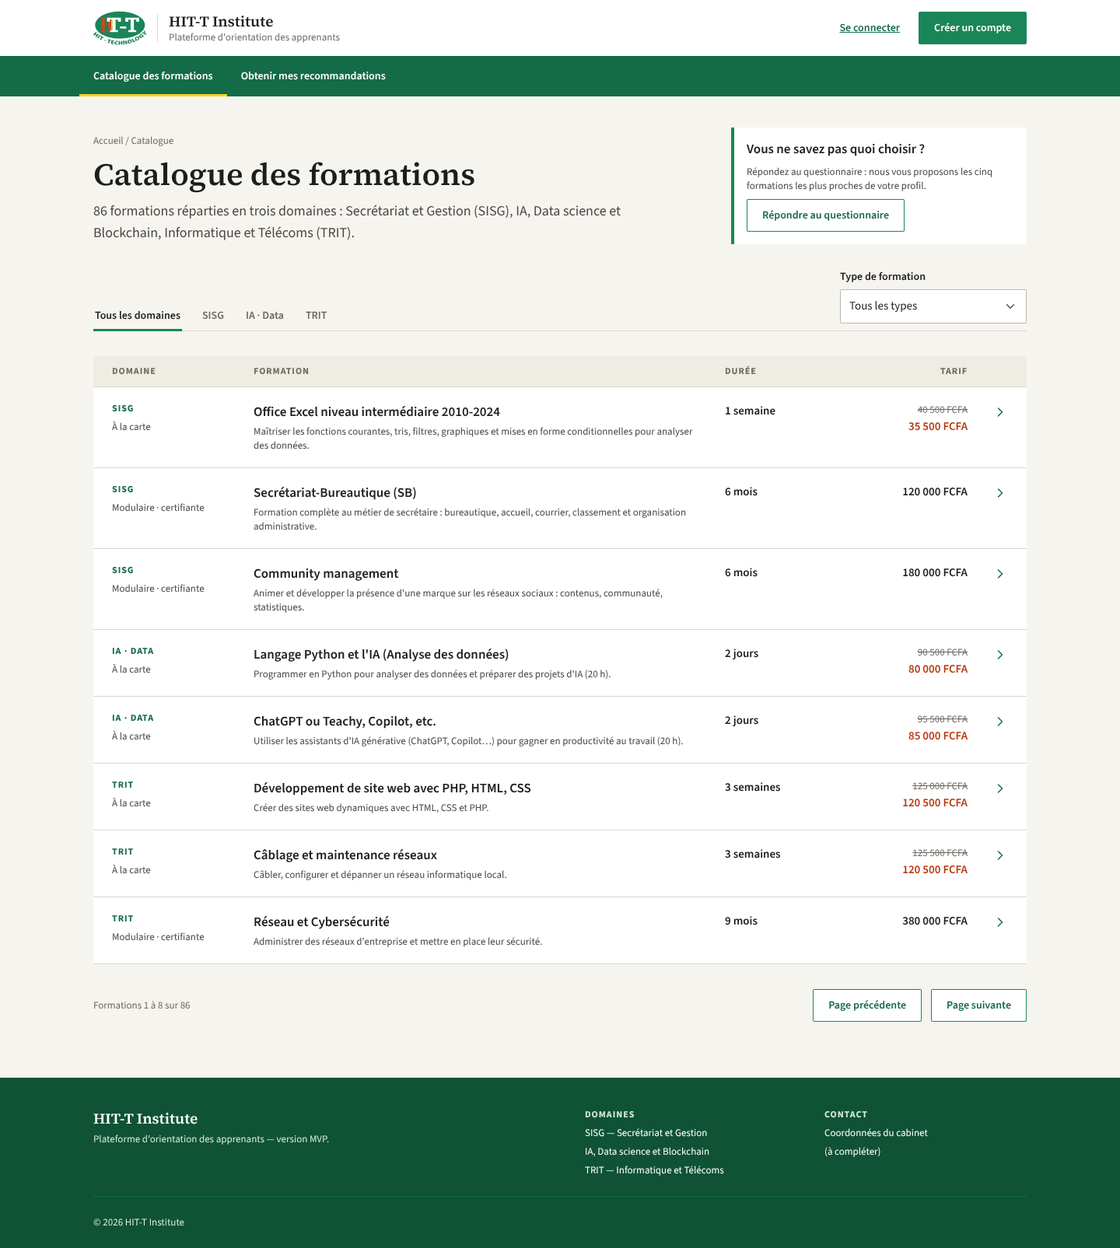
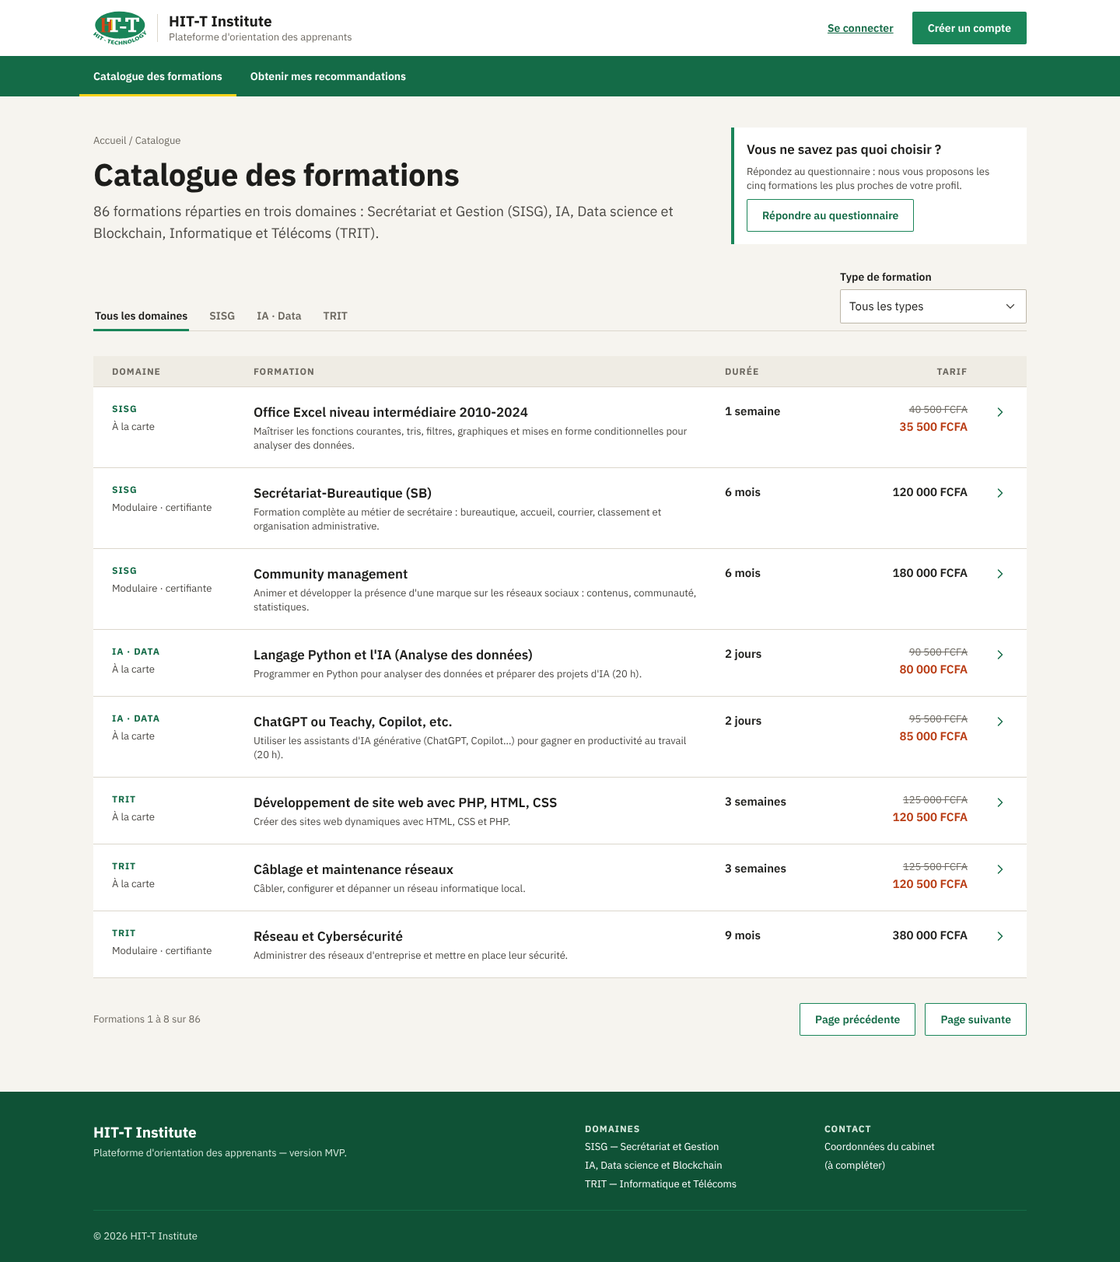
Design v2 : police IBM Plex Sans, cartes sans bordure, sans ombre
Claude-Session: https://claude.ai/code/session_01RyxwZ4ewkXKC6Hwn9jwCTd

diff --git a/design/figma-scripts/v2-03-ecrans-mobile.js b/design/figma-scripts/v2-03-ecrans-mobile.js
@@ -8,8 +8,9 @@ const load = async (p) => { if (p.loadAsync) await p.loadAsync(); };
 const goTo = async (p) => { if (figma.setCurrentPageAsync) await figma.setCurrentPageAsync(p); else figma.currentPage = p; };
 
 const PAGES = { fond: 'v2 · Fondations', desk: 'v2 · Écrans desktop', mob: 'v2 · Écrans mobile' };
-const SERIF = ['Source Serif 4', 'Source Serif Pro', 'Georgia'];
-const SANS = ['Source Sans 3', 'Source Sans Pro', 'Inter'];
+// Police unique de la plateforme (repli sur Inter si absente)
+const TITRES = ['IBM Plex Sans', 'Inter'];
+const SANS = ['IBM Plex Sans', 'Inter'];
 
 const COULEURS = {
   'couleur/vert/800': '#0F5236', 'couleur/vert/700': '#146B47', 'couleur/vert/600': '#1A8559', 'couleur/vert/100': '#D5E8DC', 'couleur/vert/50': '#EEF5F0',
@@ -23,10 +24,10 @@ const COULEURS = {
 const RAYONS = { 'rayon/petit': 2, 'rayon/moyen': 4 };
 // [nom, familles, graisse, taille, interligne, interlettrage %, casse]
 const STYLES = [
-  ['Display', SERIF, 'Semibold', 40, 48, 0, 'ORIGINAL'],
-  ['Titre 1', SERIF, 'Semibold', 30, 38, 0, 'ORIGINAL'],
-  ['Titre 2', SERIF, 'Semibold', 22, 30, 0, 'ORIGINAL'],
-  ['Marque', SERIF, 'Semibold', 19, 24, 0, 'ORIGINAL'],
+  ['Display', TITRES, 'Bold', 40, 48, -1, 'ORIGINAL'],
+  ['Titre 1', TITRES, 'Bold', 30, 38, -0.5, 'ORIGINAL'],
+  ['Titre 2', TITRES, 'Semibold', 22, 30, 0, 'ORIGINAL'],
+  ['Marque', TITRES, 'Bold', 19, 24, 0, 'ORIGINAL'],
   ['Titre 3', SANS, 'Semibold', 17, 24, 0, 'ORIGINAL'],
   ['Chapô', SANS, 'Regular', 18, 28, 0, 'ORIGINAL'],
   ['Corps', SANS, 'Regular', 15, 22, 0, 'ORIGINAL'],
@@ -35,8 +36,8 @@ const STYLES = [
   ['Petit', SANS, 'Regular', 13, 18, 0, 'ORIGINAL'],
   ['Petit fort', SANS, 'Semibold', 13, 18, 0, 'ORIGINAL'],
   ['Surtitre', SANS, 'Bold', 12, 16, 8, 'UPPER'],
-  ['Chiffre', SERIF, 'Semibold', 44, 52, 0, 'ORIGINAL'],
-  ['Rang', SERIF, 'Semibold', 34, 40, 0, 'ORIGINAL'],
+  ['Chiffre', TITRES, 'Bold', 44, 52, 0, 'ORIGINAL'],
+  ['Rang', TITRES, 'Bold', 34, 40, 0, 'ORIGINAL'],
 ];
 
 let V = {}, TS = {}, FP, DESK, MOB, FONTS;
@@ -185,7 +186,6 @@ function panel(name, p = 24) {
   const c = AL('VERTICAL', { name, gap: 16 });
   pad(c, p);
   c.fills = fill('couleur/papier');
-  stroke(c, 'couleur/filet');
   rad(c);
   return c;
 }
@@ -406,7 +406,7 @@ async function catalogueScreen(idx) {
   for (const [o, a] of [['Tous les domaines', true], ['SISG', false], ['IA · Data', false], ['TRIT', false]]) bar.appendChild(inst(S.tab, a ? 'État=Actif' : 'État=Inactif', { 'Libellé': o }));
   spacer(bar);
   const typ = inst(S.field, 'Type=Liste', { 'Libellé': 'Type de formation', 'Valeur': 'Tous les types' }); bar.appendChild(typ); setW(typ, 240); typ.paddingBottom = 10;
-  const list = AL('VERTICAL', { name: 'Liste', gap: 0 }); list.fills = fill('couleur/papier'); stroke(list, 'couleur/filet'); append(b, list);
+  const list = AL('VERTICAL', { name: 'Liste', gap: 0 }); list.fills = fill('couleur/papier'); append(b, list);
   const lh = AL('HORIZONTAL', { name: 'En-tête de liste', gap: 32 }); pad(lh, 12, 24); lh.fills = fill('couleur/fond-2'); stroke(lh, 'couleur/filet', 1, 'b'); append(list, lh);
   for (const [l, w] of [['Domaine', 150], ['Formation', null], ['Durée', 110], ['Tarif', 170], ['', 20]]) { const c = AL('HORIZONTAL', { name: l || 'Vide' }); if (l === 'Tarif') c.primaryAxisAlignItems = 'MAX'; lh.appendChild(c); if (w) setW(c, w); else c.layoutSizingHorizontal = 'FILL'; if (l) c.appendChild(await txt(l, 'Surtitre', 'couleur/discret')); }
   for (const f of CATALOGUE) append(list, await ligneFormation(S.row, f));
@@ -480,7 +480,7 @@ async function questionnaireScreen(idx) {
   const b3 = await block('3.', 'Vos contraintes');
   const tq = AL('VERTICAL', { name: 'Type souhaité', gap: 8 }); append(b3, tq);
   tq.appendChild(await txt('Type de formation souhaité', 'Libellé'));
-  const opts = AL('VERTICAL', { name: 'Options', gap: 0 }); stroke(opts, 'couleur/filet-fort'); rad(opts); append(tq, opts);
+  const opts = AL('VERTICAL', { name: 'Options', gap: 0 }); opts.fills = fill('couleur/papier'); append(tq, opts);
   let first = true;
   for (const [title, desc, sel] of [['Formation courte, à la carte', 'De 1 jour à 3 mois : un outil ou une compétence précise.', true], ['Parcours modulaire certifiant', 'De 2 à 9 mois : un métier complet.', false]]) {
     const o = AL('HORIZONTAL', { name: 'Option · ' + title, gap: 14 }); pad(o, 14, 16); o.counterAxisAlignItems = 'MIN';
@@ -559,7 +559,7 @@ async function adminScreen(idx) {
   ch.appendChild(inst(S.btn, 'Type=Principal', { 'Libellé': 'Ajouter une formation' }));
   const tabs = AL('HORIZONTAL', { name: 'Onglets', gap: 24 }); stroke(tabs, 'couleur/filet', 1, 'b'); append(cat, tabs);
   for (const [o, a] of [['Tous les domaines (86)', true], ['SISG (31)', false], ['IA · Data (24)', false], ['TRIT (31)', false]]) tabs.appendChild(inst(S.tab, a ? 'État=Actif' : 'État=Inactif', { 'Libellé': o }));
-  const tbl = AL('VERTICAL', { name: 'Tableau', gap: 0 }); tbl.fills = fill('couleur/papier'); stroke(tbl, 'couleur/filet'); append(cat, tbl);
+  const tbl = AL('VERTICAL', { name: 'Tableau', gap: 0 }); tbl.fills = fill('couleur/papier'); append(cat, tbl);
   const th = AL('HORIZONTAL', { name: 'En-tête tableau', gap: 16 }); pad(th, 12, 24); th.fills = fill('couleur/fond-2'); stroke(th, 'couleur/filet', 1, 'b'); append(tbl, th);
   for (const [l, w] of [['Intitulé', null], ['Domaine', 140], ['Type', 140], ['Durée', 100], ['Coût', 110], ['Prix promo', 110], ['Actions', 150]]) { const c = AL('HORIZONTAL', { name: l }); th.appendChild(c); if (w) setW(c, w); else c.layoutSizingHorizontal = 'FILL'; c.appendChild(await txt(l, 'Surtitre', 'couleur/discret')); }
   for (const [t, d, ty, du, co, pr] of [['Office Excel niveau intermédiaire 2010-2024', 'SISG', 'À la carte', '1 semaine', '40 500', '35 500'], ['Secrétariat-Bureautique (SB)', 'SISG', 'Modulaire', '6 mois', '120 000', '—'], ['Langage Python et l\'IA (Analyse des données)', 'IA-Data', 'À la carte', '2 jours', '90 500', '80 000'], ['Analyste développeur des systèmes IA', 'IA-Data', 'Modulaire', '6 mois', '250 000', '—'], ['Développement de site web avec PHP, HTML, CSS', 'TRIT', 'À la carte', '3 semaines', '125 000', '120 500'], ['Réseau et Cybersécurité', 'TRIT', 'Modulaire', '9 mois', '380 000', '—']]) {
@@ -579,7 +579,6 @@ async function adminScreen(idx) {
   ov.fills = [{ type: 'SOLID', color: hex('#1D1D1B'), opacity: 0.55 }];
   ov.layoutMode = 'VERTICAL'; ov.primaryAxisSizingMode = 'FIXED'; ov.counterAxisSizingMode = 'FIXED'; ov.counterAxisAlignItems = 'CENTER'; ov.paddingTop = 72;
   const md = panel('Fenêtre de modification', 0); md.itemSpacing = 0; ov.appendChild(md); setW(md, 720);
-  md.effects = [{ type: 'DROP_SHADOW', color: { r: 0, g: 0, b: 0, a: 0.18 }, offset: { x: 0, y: 12 }, radius: 32, spread: 0, visible: true, blendMode: 'NORMAL' }];
   const mh = AL('HORIZONTAL', { name: 'En-tête', gap: 16 }); mh.counterAxisAlignItems = 'CENTER'; pad(mh, 20, 32); mh.fills = fill('couleur/vert/700'); append(md, mh);
   mh.appendChild(await txt('Modifier une formation', 'Titre 2', 'couleur/blanc')); spacer(mh);
   mh.appendChild(await txt('Fermer', 'Libellé', 'couleur/vert/100'));
@@ -675,7 +674,7 @@ async function ecransMobile() {
   const tabs = AL('HORIZONTAL', { name: 'Onglets', gap: 18 }); stroke(tabs, 'couleur/filet', 1, 'b'); append(b1, tabs);
   for (const [o, a] of [['Tous', true], ['SISG', false], ['IA · Data', false], ['TRIT', false]]) tabs.appendChild(inst(S.tab, a ? 'État=Actif' : 'État=Inactif', { 'Libellé': o }));
   append(b1, inst(S.field, 'Type=Liste', { 'Libellé': 'Type de formation', 'Valeur': 'Tous les types' }));
-  const list = AL('VERTICAL', { name: 'Liste', gap: 0 }); list.fills = fill('couleur/papier'); stroke(list, 'couleur/filet'); append(b1, list);
+  const list = AL('VERTICAL', { name: 'Liste', gap: 0 }); list.fills = fill('couleur/papier'); append(b1, list);
   for (const f of [CATALOGUE[0], CATALOGUE[3], CATALOGUE[5], CATALOGUE[7]]) {
     const [t, d, dom, typ, dur, prix, promo] = f;
     const i = inst(S.row, null, { 'Intitulé': t, 'Description': d, 'Type': typ, 'Durée': dur, 'Prix': prix || '', 'Prix promo': promo, 'Prix barré': !!prix });
@@ -702,7 +701,7 @@ async function ecransMobile() {
   fld(q2, 'Type=Zone de texte', { 'Libellé': 'Domaines qui vous attirent', 'Valeur': 'Programmation, développement web' });
   const q3 = await block('3.', 'Vos contraintes');
   q3.appendChild(await txt('Type de formation souhaité', 'Libellé'));
-  const opts = AL('VERTICAL', { name: 'Options', gap: 0 }); stroke(opts, 'couleur/filet-fort'); rad(opts); append(q3, opts);
+  const opts = AL('VERTICAL', { name: 'Options', gap: 0 }); opts.fills = fill('couleur/papier'); append(q3, opts);
   let first = true;
   for (const [title, desc, sel] of [['Formation courte, à la carte', 'De 1 jour à 3 mois.', true], ['Parcours modulaire certifiant', 'De 2 à 9 mois.', false]]) {
     const o = AL('HORIZONTAL', { name: 'Option · ' + title, gap: 12 }); pad(o, 14); o.counterAxisAlignItems = 'MIN'; o.fills = fill('couleur/papier');
@@ -726,7 +725,7 @@ async function ecransMobile() {
   const h3 = AL('VERTICAL', { name: 'Titre', gap: 6 }); append(b3, h3);
   await para(h3, 'Vos cinq formations recommandées', 'Titre 1');
   await para(h3, 'De la plus proche à la moins proche de votre profil.', 'Corps', 'couleur/encre-2');
-  const prof = AL('HORIZONTAL', { name: 'Résumé du profil', gap: 12 }); prof.counterAxisAlignItems = 'CENTER'; pad(prof, 12, 14); prof.fills = fill('couleur/papier'); stroke(prof, 'couleur/filet'); rad(prof); append(b3, prof);
+  const prof = AL('HORIZONTAL', { name: 'Résumé du profil', gap: 12 }); prof.counterAxisAlignItems = 'CENTER'; pad(prof, 12, 14); prof.fills = fill('couleur/papier'); rad(prof); append(b3, prof);
   const pt = AL('VERTICAL', { name: 'Texte', gap: 2 }); append(prof, pt);
   await para(pt, 'À la carte · 150 000 FCFA max.', 'Petit fort');
   await para(pt, 'Objectif : devenir développeur web', 'Petit', 'couleur/encre-2');

diff --git a/design/figma-scripts/v2-02-ecrans-desktop.js b/design/figma-scripts/v2-02-ecrans-desktop.js
@@ -8,8 +8,9 @@ const load = async (p) => { if (p.loadAsync) await p.loadAsync(); };
 const goTo = async (p) => { if (figma.setCurrentPageAsync) await figma.setCurrentPageAsync(p); else figma.currentPage = p; };
 
 const PAGES = { fond: 'v2 · Fondations', desk: 'v2 · Écrans desktop', mob: 'v2 · Écrans mobile' };
-const SERIF = ['Source Serif 4', 'Source Serif Pro', 'Georgia'];
-const SANS = ['Source Sans 3', 'Source Sans Pro', 'Inter'];
+// Police unique de la plateforme (repli sur Inter si absente)
+const TITRES = ['IBM Plex Sans', 'Inter'];
+const SANS = ['IBM Plex Sans', 'Inter'];
 
 const COULEURS = {
   'couleur/vert/800': '#0F5236', 'couleur/vert/700': '#146B47', 'couleur/vert/600': '#1A8559', 'couleur/vert/100': '#D5E8DC', 'couleur/vert/50': '#EEF5F0',
@@ -23,10 +24,10 @@ const COULEURS = {
 const RAYONS = { 'rayon/petit': 2, 'rayon/moyen': 4 };
 // [nom, familles, graisse, taille, interligne, interlettrage %, casse]
 const STYLES = [
-  ['Display', SERIF, 'Semibold', 40, 48, 0, 'ORIGINAL'],
-  ['Titre 1', SERIF, 'Semibold', 30, 38, 0, 'ORIGINAL'],
-  ['Titre 2', SERIF, 'Semibold', 22, 30, 0, 'ORIGINAL'],
-  ['Marque', SERIF, 'Semibold', 19, 24, 0, 'ORIGINAL'],
+  ['Display', TITRES, 'Bold', 40, 48, -1, 'ORIGINAL'],
+  ['Titre 1', TITRES, 'Bold', 30, 38, -0.5, 'ORIGINAL'],
+  ['Titre 2', TITRES, 'Semibold', 22, 30, 0, 'ORIGINAL'],
+  ['Marque', TITRES, 'Bold', 19, 24, 0, 'ORIGINAL'],
   ['Titre 3', SANS, 'Semibold', 17, 24, 0, 'ORIGINAL'],
   ['Chapô', SANS, 'Regular', 18, 28, 0, 'ORIGINAL'],
   ['Corps', SANS, 'Regular', 15, 22, 0, 'ORIGINAL'],
@@ -35,8 +36,8 @@ const STYLES = [
   ['Petit', SANS, 'Regular', 13, 18, 0, 'ORIGINAL'],
   ['Petit fort', SANS, 'Semibold', 13, 18, 0, 'ORIGINAL'],
   ['Surtitre', SANS, 'Bold', 12, 16, 8, 'UPPER'],
-  ['Chiffre', SERIF, 'Semibold', 44, 52, 0, 'ORIGINAL'],
-  ['Rang', SERIF, 'Semibold', 34, 40, 0, 'ORIGINAL'],
+  ['Chiffre', TITRES, 'Bold', 44, 52, 0, 'ORIGINAL'],
+  ['Rang', TITRES, 'Bold', 34, 40, 0, 'ORIGINAL'],
 ];
 
 let V = {}, TS = {}, FP, DESK, MOB, FONTS;
@@ -185,7 +186,6 @@ function panel(name, p = 24) {
   const c = AL('VERTICAL', { name, gap: 16 });
   pad(c, p);
   c.fills = fill('couleur/papier');
-  stroke(c, 'couleur/filet');
   rad(c);
   return c;
 }
@@ -406,7 +406,7 @@ async function catalogueScreen(idx) {
   for (const [o, a] of [['Tous les domaines', true], ['SISG', false], ['IA · Data', false], ['TRIT', false]]) bar.appendChild(inst(S.tab, a ? 'État=Actif' : 'État=Inactif', { 'Libellé': o }));
   spacer(bar);
   const typ = inst(S.field, 'Type=Liste', { 'Libellé': 'Type de formation', 'Valeur': 'Tous les types' }); bar.appendChild(typ); setW(typ, 240); typ.paddingBottom = 10;
-  const list = AL('VERTICAL', { name: 'Liste', gap: 0 }); list.fills = fill('couleur/papier'); stroke(list, 'couleur/filet'); append(b, list);
+  const list = AL('VERTICAL', { name: 'Liste', gap: 0 }); list.fills = fill('couleur/papier'); append(b, list);
   const lh = AL('HORIZONTAL', { name: 'En-tête de liste', gap: 32 }); pad(lh, 12, 24); lh.fills = fill('couleur/fond-2'); stroke(lh, 'couleur/filet', 1, 'b'); append(list, lh);
   for (const [l, w] of [['Domaine', 150], ['Formation', null], ['Durée', 110], ['Tarif', 170], ['', 20]]) { const c = AL('HORIZONTAL', { name: l || 'Vide' }); if (l === 'Tarif') c.primaryAxisAlignItems = 'MAX'; lh.appendChild(c); if (w) setW(c, w); else c.layoutSizingHorizontal = 'FILL'; if (l) c.appendChild(await txt(l, 'Surtitre', 'couleur/discret')); }
   for (const f of CATALOGUE) append(list, await ligneFormation(S.row, f));
@@ -480,7 +480,7 @@ async function questionnaireScreen(idx) {
   const b3 = await block('3.', 'Vos contraintes');
   const tq = AL('VERTICAL', { name: 'Type souhaité', gap: 8 }); append(b3, tq);
   tq.appendChild(await txt('Type de formation souhaité', 'Libellé'));
-  const opts = AL('VERTICAL', { name: 'Options', gap: 0 }); stroke(opts, 'couleur/filet-fort'); rad(opts); append(tq, opts);
+  const opts = AL('VERTICAL', { name: 'Options', gap: 0 }); opts.fills = fill('couleur/papier'); append(tq, opts);
   let first = true;
   for (const [title, desc, sel] of [['Formation courte, à la carte', 'De 1 jour à 3 mois : un outil ou une compétence précise.', true], ['Parcours modulaire certifiant', 'De 2 à 9 mois : un métier complet.', false]]) {
     const o = AL('HORIZONTAL', { name: 'Option · ' + title, gap: 14 }); pad(o, 14, 16); o.counterAxisAlignItems = 'MIN';
@@ -559,7 +559,7 @@ async function adminScreen(idx) {
   ch.appendChild(inst(S.btn, 'Type=Principal', { 'Libellé': 'Ajouter une formation' }));
   const tabs = AL('HORIZONTAL', { name: 'Onglets', gap: 24 }); stroke(tabs, 'couleur/filet', 1, 'b'); append(cat, tabs);
   for (const [o, a] of [['Tous les domaines (86)', true], ['SISG (31)', false], ['IA · Data (24)', false], ['TRIT (31)', false]]) tabs.appendChild(inst(S.tab, a ? 'État=Actif' : 'État=Inactif', { 'Libellé': o }));
-  const tbl = AL('VERTICAL', { name: 'Tableau', gap: 0 }); tbl.fills = fill('couleur/papier'); stroke(tbl, 'couleur/filet'); append(cat, tbl);
+  const tbl = AL('VERTICAL', { name: 'Tableau', gap: 0 }); tbl.fills = fill('couleur/papier'); append(cat, tbl);
   const th = AL('HORIZONTAL', { name: 'En-tête tableau', gap: 16 }); pad(th, 12, 24); th.fills = fill('couleur/fond-2'); stroke(th, 'couleur/filet', 1, 'b'); append(tbl, th);
   for (const [l, w] of [['Intitulé', null], ['Domaine', 140], ['Type', 140], ['Durée', 100], ['Coût', 110], ['Prix promo', 110], ['Actions', 150]]) { const c = AL('HORIZONTAL', { name: l }); th.appendChild(c); if (w) setW(c, w); else c.layoutSizingHorizontal = 'FILL'; c.appendChild(await txt(l, 'Surtitre', 'couleur/discret')); }
   for (const [t, d, ty, du, co, pr] of [['Office Excel niveau intermédiaire 2010-2024', 'SISG', 'À la carte', '1 semaine', '40 500', '35 500'], ['Secrétariat-Bureautique (SB)', 'SISG', 'Modulaire', '6 mois', '120 000', '—'], ['Langage Python et l\'IA (Analyse des données)', 'IA-Data', 'À la carte', '2 jours', '90 500', '80 000'], ['Analyste développeur des systèmes IA', 'IA-Data', 'Modulaire', '6 mois', '250 000', '—'], ['Développement de site web avec PHP, HTML, CSS', 'TRIT', 'À la carte', '3 semaines', '125 000', '120 500'], ['Réseau et Cybersécurité', 'TRIT', 'Modulaire', '9 mois', '380 000', '—']]) {
@@ -579,7 +579,6 @@ async function adminScreen(idx) {
   ov.fills = [{ type: 'SOLID', color: hex('#1D1D1B'), opacity: 0.55 }];
   ov.layoutMode = 'VERTICAL'; ov.primaryAxisSizingMode = 'FIXED'; ov.counterAxisSizingMode = 'FIXED'; ov.counterAxisAlignItems = 'CENTER'; ov.paddingTop = 72;
   const md = panel('Fenêtre de modification', 0); md.itemSpacing = 0; ov.appendChild(md); setW(md, 720);
-  md.effects = [{ type: 'DROP_SHADOW', color: { r: 0, g: 0, b: 0, a: 0.18 }, offset: { x: 0, y: 12 }, radius: 32, spread: 0, visible: true, blendMode: 'NORMAL' }];
   const mh = AL('HORIZONTAL', { name: 'En-tête', gap: 16 }); mh.counterAxisAlignItems = 'CENTER'; pad(mh, 20, 32); mh.fills = fill('couleur/vert/700'); append(md, mh);
   mh.appendChild(await txt('Modifier une formation', 'Titre 2', 'couleur/blanc')); spacer(mh);
   mh.appendChild(await txt('Fermer', 'Libellé', 'couleur/vert/100'));

diff --git a/design/figma-scripts/v2-01-fondations.js b/design/figma-scripts/v2-01-fondations.js
@@ -8,8 +8,9 @@ const load = async (p) => { if (p.loadAsync) await p.loadAsync(); };
 const goTo = async (p) => { if (figma.setCurrentPageAsync) await figma.setCurrentPageAsync(p); else figma.currentPage = p; };
 
 const PAGES = { fond: 'v2 · Fondations', desk: 'v2 · Écrans desktop', mob: 'v2 · Écrans mobile' };
-const SERIF = ['Source Serif 4', 'Source Serif Pro', 'Georgia'];
-const SANS = ['Source Sans 3', 'Source Sans Pro', 'Inter'];
+// Police unique de la plateforme (repli sur Inter si absente)
+const TITRES = ['IBM Plex Sans', 'Inter'];
+const SANS = ['IBM Plex Sans', 'Inter'];
 
 const COULEURS = {
   'couleur/vert/800': '#0F5236', 'couleur/vert/700': '#146B47', 'couleur/vert/600': '#1A8559', 'couleur/vert/100': '#D5E8DC', 'couleur/vert/50': '#EEF5F0',
@@ -23,10 +24,10 @@ const COULEURS = {
 const RAYONS = { 'rayon/petit': 2, 'rayon/moyen': 4 };
 // [nom, familles, graisse, taille, interligne, interlettrage %, casse]
 const STYLES = [
-  ['Display', SERIF, 'Semibold', 40, 48, 0, 'ORIGINAL'],
-  ['Titre 1', SERIF, 'Semibold', 30, 38, 0, 'ORIGINAL'],
-  ['Titre 2', SERIF, 'Semibold', 22, 30, 0, 'ORIGINAL'],
-  ['Marque', SERIF, 'Semibold', 19, 24, 0, 'ORIGINAL'],
+  ['Display', TITRES, 'Bold', 40, 48, -1, 'ORIGINAL'],
+  ['Titre 1', TITRES, 'Bold', 30, 38, -0.5, 'ORIGINAL'],
+  ['Titre 2', TITRES, 'Semibold', 22, 30, 0, 'ORIGINAL'],
+  ['Marque', TITRES, 'Bold', 19, 24, 0, 'ORIGINAL'],
   ['Titre 3', SANS, 'Semibold', 17, 24, 0, 'ORIGINAL'],
   ['Chapô', SANS, 'Regular', 18, 28, 0, 'ORIGINAL'],
   ['Corps', SANS, 'Regular', 15, 22, 0, 'ORIGINAL'],
@@ -35,8 +36,8 @@ const STYLES = [
   ['Petit', SANS, 'Regular', 13, 18, 0, 'ORIGINAL'],
   ['Petit fort', SANS, 'Semibold', 13, 18, 0, 'ORIGINAL'],
   ['Surtitre', SANS, 'Bold', 12, 16, 8, 'UPPER'],
-  ['Chiffre', SERIF, 'Semibold', 44, 52, 0, 'ORIGINAL'],
-  ['Rang', SERIF, 'Semibold', 34, 40, 0, 'ORIGINAL'],
+  ['Chiffre', TITRES, 'Bold', 44, 52, 0, 'ORIGINAL'],
+  ['Rang', TITRES, 'Bold', 34, 40, 0, 'ORIGINAL'],
 ];
 
 let V = {}, TS = {}, FP, DESK, MOB, FONTS;
@@ -185,7 +186,6 @@ function panel(name, p = 24) {
   const c = AL('VERTICAL', { name, gap: 16 });
   pad(c, p);
   c.fills = fill('couleur/papier');
-  stroke(c, 'couleur/filet');
   rad(c);
   return c;
 }
@@ -344,7 +344,7 @@ async function fondations() {
   const intro = AL('VERTICAL', { name: 'Introduction', gap: 8 }); append(board, intro);
   intro.appendChild(await txt('Charte de la plateforme', 'Surtitre', 'couleur/vert/700'));
   intro.appendChild(await txt('HIT-T Institute — fondations v2', 'Display'));
-  await para(intro, 'Style institutionnel : couleurs du logo, titres à empattements (Source Serif), texte courant en Source Sans, angles presque droits, filets fins, pas d\'ombres. Une seule couleur d\'accent (le vert du logo) ; pas de fonds teintés ni de pastilles.', 'Corps', 'couleur/encre-2');
+  await para(intro, 'Style institutionnel : couleurs du logo, police unique IBM Plex Sans, angles presque droits, aucune bordure de carte (le blanc se détache du fond crème), filets fins seulement pour séparer les lignes, pas d\'ombres. Une seule couleur d\'accent (le vert du logo) ; pas de fonds teintés ni de pastilles.', 'Corps', 'couleur/encre-2');
 
   // Couleurs
   const sCol = await section(board, 'Couleurs', 'Une seule couleur d\'accent : le vert du logo. L\'orange n\'apparaît que sur les prix promotionnels, le jaune que sous l\'onglet actif. Tout le reste est en neutres chauds.');
@@ -620,7 +620,7 @@ async function fondations() {
       r.layoutMode = mobile ? 'VERTICAL' : 'HORIZONTAL';
       r.resize(mobile ? 358 : 880, 10);
       if (mobile) { r.counterAxisSizingMode = 'FIXED'; r.primaryAxisSizingMode = 'AUTO'; } else { r.primaryAxisSizingMode = 'FIXED'; r.counterAxisSizingMode = 'AUTO'; }
-      r.itemSpacing = mobile ? 10 : 24; r.counterAxisAlignItems = 'MIN'; pad(r, mobile ? 16 : 24); r.fills = fill('couleur/papier'); stroke(r, 'couleur/filet'); rad(r);
+      r.itemSpacing = mobile ? 10 : 24; r.counterAxisAlignItems = 'MIN'; pad(r, mobile ? 16 : 24); r.fills = fill('couleur/papier'); rad(r);
       sList.appendChild(r);
       const rg = await txt('1', mobile ? 'Titre 1' : 'Rang', 'couleur/vert/700'); rg.name = 'Rang';
       const body = AL('VERTICAL', { name: 'Contenu', gap: 8 });
@@ -644,7 +644,7 @@ async function fondations() {
       for (const w of ['développement web', 'site web', 'programmation']) tags.appendChild(inst(mot, 'Commun=Oui', { 'Mot': w }));
       const info = await para(body, '3 semaines · 120 500 FCFA (prix promotionnel)', 'Petit', 'couleur/encre-2'); info.name = 'Infos';
       const side = AL('VERTICAL', { name: 'Avis', gap: 12 });
-      if (mobile) { rule(r); append(r, side); } else { r.appendChild(side); setW(side, 248); side.paddingLeft = 24; stroke(side, 'couleur/filet', 1, 'l'); side.layoutSizingVertical = 'FILL'; }
+      if (mobile) { append(r, side); side.paddingTop = 4; } else { r.appendChild(side); setW(side, 248); side.paddingLeft = 8; side.layoutSizingVertical = 'FILL'; }
       side.appendChild(await txt('Correspondance', 'Surtitre', 'couleur/discret'));
       await levelRow(side);
       const q = await para(side, retour === 'Aucun' ? 'Cette formation vous intéresse ?' : 'Votre avis (modifiable) :', 'Petit', 'couleur/discret'); q.name = 'Question';
@@ -668,7 +668,7 @@ async function fondations() {
   {
     const k = figma.createComponent(); k.name = 'Chiffre clé';
     k.layoutMode = 'VERTICAL'; k.resize(384, 10); k.counterAxisSizingMode = 'FIXED'; k.primaryAxisSizingMode = 'AUTO'; k.itemSpacing = 6;
-    pad(k, 24); k.paddingTop = 27; k.fills = fill('couleur/papier'); stroke(k, 'couleur/filet'); k.clipsContent = true;
+    pad(k, 24); k.paddingTop = 27; k.fills = fill('couleur/papier'); k.clipsContent = true;
     const bar = figma.createRectangle(); bar.name = 'Repère'; bar.fills = fill('couleur/vert/600');
     sList.appendChild(k);
     k.appendChild(bar); bar.layoutPositioning = 'ABSOLUTE'; bar.x = 0; bar.y = 0; bar.resize(384, 3); bar.constraints = { horizontal: 'STRETCH', vertical: 'MIN' };

diff --git a/design/figma-scripts/README.md b/design/figma-scripts/README.md
@@ -10,11 +10,11 @@ Scripts autonomes à coller dans le plugin **Scripter** (Figma navigateur ou des
 | 2 | `v2-02-ecrans-desktop.js` | 01 Connexion · 02 Inscription · 03 Catalogue · 04 Détail · 05 Questionnaire · 06 Mes recommandations · 07 Tableau de bord · 08 Modifier une formation. |
 | 3 | `v2-03-ecrans-mobile.js` | M1 Catalogue · M2 Questionnaire · M3 Mes recommandations (390 px). |
 
-Principes : une seule couleur d'accent (le vert du logo), orange uniquement sur les prix promo, jaune uniquement sous l'onglet actif ; bandeau vert plein pour la navigation, titres à empattements, angles de 2 px, filets fins ; pas d'ombres, de fonds pastel ni de pastilles ; catalogue en liste. Le score de pertinence est remplacé côté apprenant par un libellé (« Très proche / Proche / Peut vous intéresser ») ; le score exact reste en base.
+Principes : une seule couleur d'accent (le vert du logo), orange uniquement sur les prix promo, jaune uniquement sous l'onglet actif ; bandeau vert plein pour la navigation, police unique IBM Plex Sans, angles de 2 px ; cartes sans bordure (le blanc se détache du fond crème), filets fins seulement entre les lignes ; pas d'ombres, de fonds pastel ni de pastilles ; catalogue en liste. Le score de pertinence est remplacé côté apprenant par un libellé (« Très proche / Proche / Peut vous intéresser ») ; le score exact reste en base.
 
 Aperçu attendu (rendu simulé, hors Figma) : [`../apercu-v2/`](../apercu-v2/).
 
-Si les polices Source Serif 4 / Source Sans 3 manquent dans Figma, le script se rabat sur Inter.
+Si IBM Plex Sans manque dans Figma, le script se rabat sur Inter.
 
 ## Version 1 (remplacée)
 
